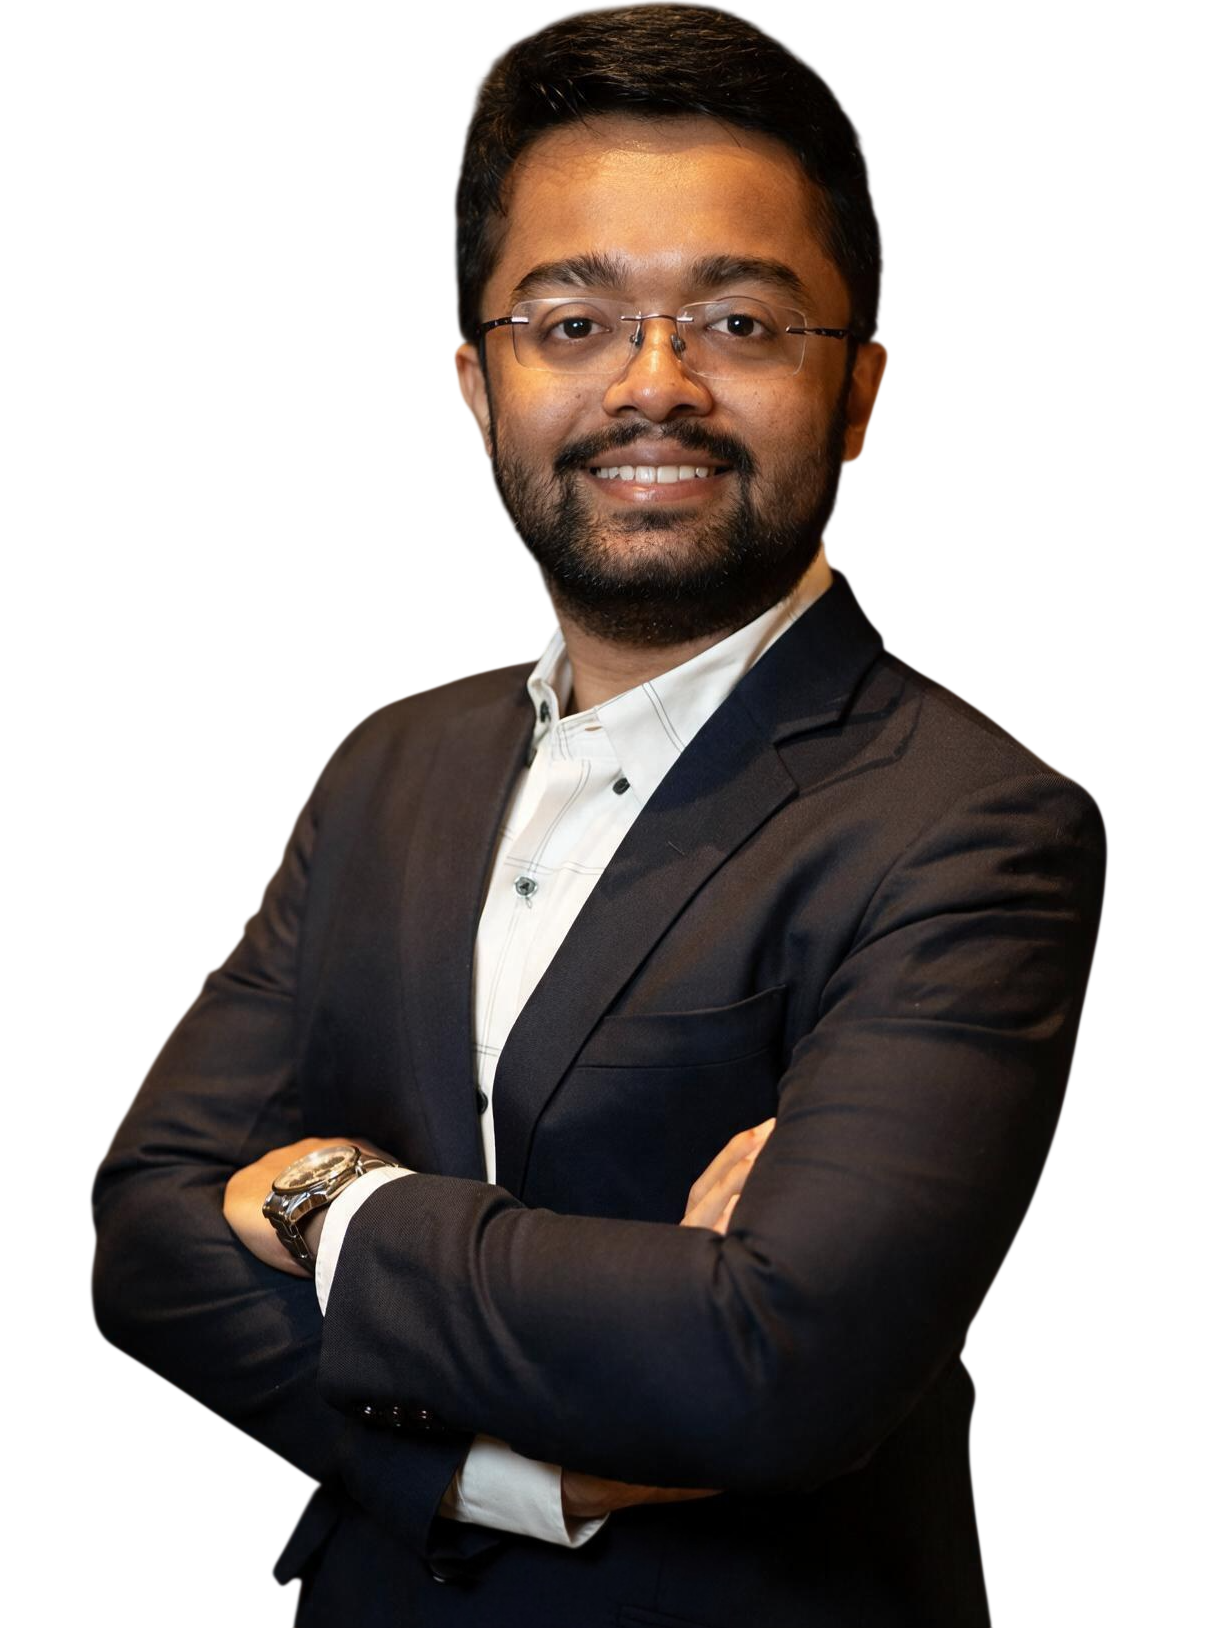
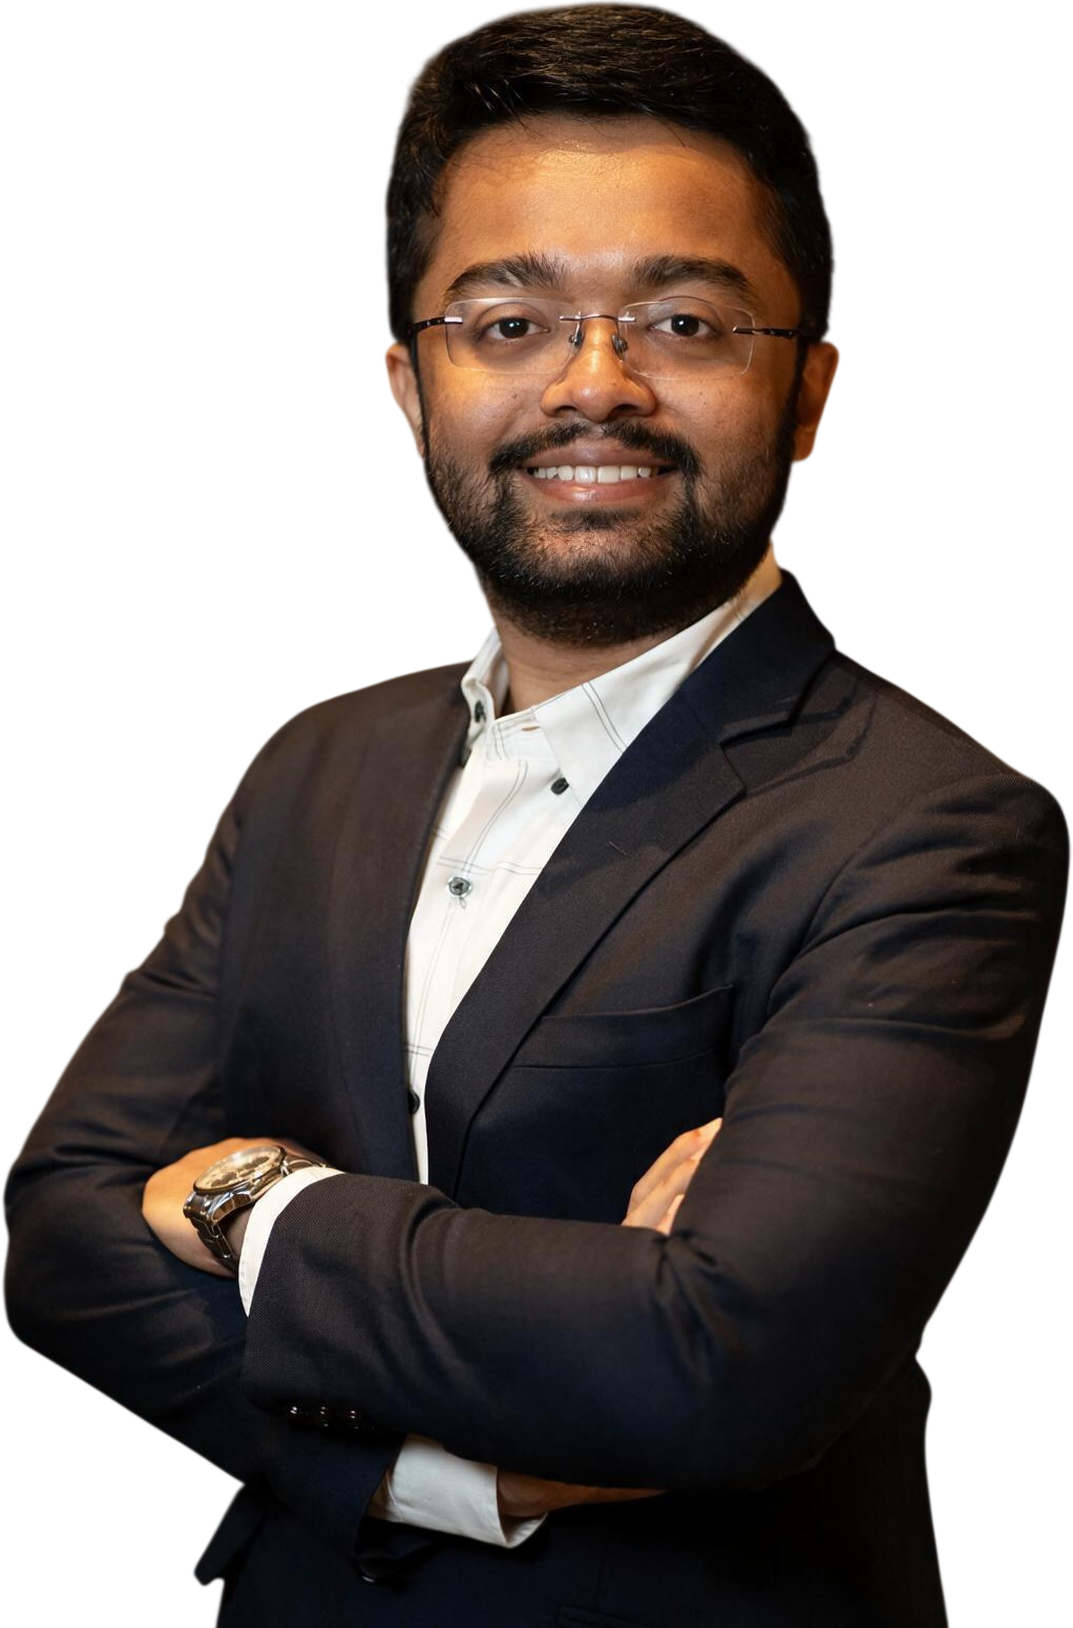
header gap fluid; crop+widen portrait into file; close line-height
1. Header gap: static 2rem -> fluid clamp(1.5rem .. 2rem), header only
   (global gap-8 untouched).
2+3. gitanj.webp: crop the transparent side margins (88px/115px) and bake a
   permanent 5% width increase into the file; portrait back to object-fit
   contain with the cropped aspect ratio; column width reduced by the cropped
   extent so the text column widens.
4. gitanj-sheth close line ('Can you think of a problem…') line-height 1.3.

diff --git a/src/styles/global.css b/src/styles/global.css
@@ -202,13 +202,14 @@ html[lang="hi"] .ecar__role {
   /* Founder portrait width — two bands:
      <640: unchanged (280 floor, 220px+15.5vw)
      ≥640: 320@640 → 400@1280 (max only at 1280) */
-  /* Portrait +10% overall (both bands scaled from the originals). */
+  /* Portrait +10%, then column narrowed ~17% now that the transparent side
+     margins are cropped out of the image (that width goes back to the text). */
   .person-media {
-    width: clamp(308px, 242px + 17.05vw, 440px);
+    width: clamp(254px, 200px + 14.07vw, 363px);
   }
   @media (min-width: 640px) {
     .person-media {
-      width: clamp(352px, 264px + 13.75vw, 440px);
+      width: clamp(290px, 218px + 11.34vw, 363px);
     }
   }
 
